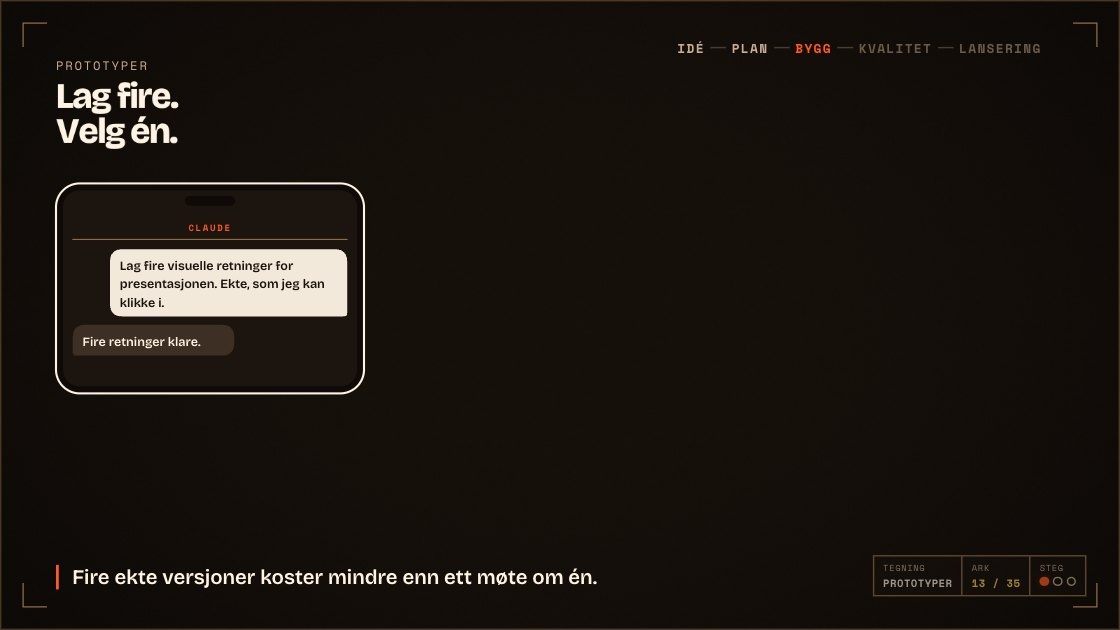
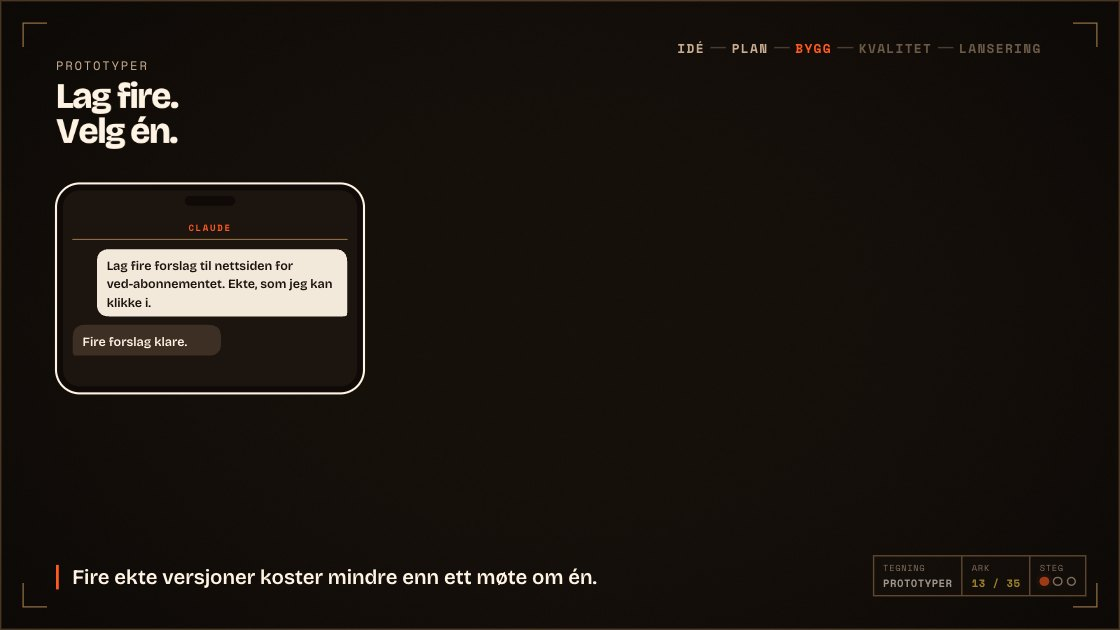
Prototypes: four landing pages for the firewood subscription; one is picked

diff --git a/src/slides/prototypes.js b/src/slides/prototypes.js
@@ -4,11 +4,11 @@ import { chatPhone } from '../engine/props.js';
 
 /*
   Tip: build several throwaway versions and pick one, instead of debating one.
-  The example is this deck's own visual identity.
-    0. Asked for four real directions.
-    1. They flip past one at a time: Observatoriet, Arkade, Blåkopi, Arbeidstegning.
-    2. Side by side for the pick. Three go in the bin; the chosen one comes back, stamped:
-       the style of the deck you are watching.
+  The example is the firewood subscription's landing page.
+    0. Asked for four real proposals for the site.
+    1. They flip past one at a time: Skog, Nordisk enkel, Rask levering, Varm peis.
+    2. Side by side for the pick. Three go in the bin; the chosen one (Varm peis) comes back,
+       stamped.
 
   Layout zones (svg units):
     tip        x 80–540, y 110–240
@@ -17,11 +17,12 @@ import { chatPhone } from '../engine/props.js';
     pick row   y 300–520 (step 2); bin x 1360–1460, y 600–760
 */
 
+// four landing pages for the firewood subscription; the last one is picked
 const DIRS = [
-  { name: 'Observatoriet', bg: '#0b1020', fg: '#e8eefc', acc: '#7fb2ff', font: "800 64px 'Inter Tight', var(--font-display)", deco: 'stars' },
-  { name: 'Arkade', bg: '#1a0f08', fg: '#ffd23f', acc: '#ff5a1f', font: '800 58px var(--font-display)', deco: 'blocks' },
-  { name: 'Blåkopi', bg: '#1d3a6b', fg: '#eaf2ff', acc: '#ff6f6f', font: '700 40px var(--font-mono)', deco: 'grid' },
-  { name: 'Arbeidstegning', bg: '#16100b', fg: '#fff3e3', acc: '#ff5a1f', font: '800 64px var(--font-display)', deco: 'sheet' },
+  { name: 'Skog', bg: '#17241a', fg: '#eef3e6', acc: '#8fbf6a', font: "800 64px 'Inter Tight', var(--font-display)", deco: 'trees' },
+  { name: 'Nordisk enkel', bg: '#f1ebe0', fg: '#1a120c', acc: '#c4562a', font: '700 56px var(--font-display)', deco: 'logs' },
+  { name: 'Rask levering', bg: '#ffd23f', fg: '#1a120c', acc: '#1a120c', font: '800 64px var(--font-display)', deco: 'truck' },
+  { name: 'Varm peis', bg: '#22120a', fg: '#fff3e3', acc: '#ff7a2f', font: '800 64px var(--font-display)', deco: 'fire' },
 ];
 const CW = 840, CH = 472;
 
@@ -30,9 +31,9 @@ export default {
   title: 'Prototyper',
   steps: 3,
   notes: [
-    'Fire ekte retninger i stedet for et møte om én.',
-    'Observatoriet, Arkade, Blåkopi, Arbeidstegning.',
-    'Velg én. Resten kastes. Det er den dere ser på nå.',
+    'Fire ekte forslag til nettsiden for ved-abonnementet, i stedet for et møte om ett.',
+    'Skog, Nordisk enkel, Rask levering, Varm peis.',
+    'Velg ett. Resten kastes.',
   ],
 
   create(ctx) {
@@ -57,37 +58,43 @@ export default {
         for (let y = step; y < CH; y += step) p += `M0 ${y} H${CW} `;
         D.p(deco, p, '', { style: `fill: none; stroke: ${color}`, 'stroke-width': 1.5 });
       };
-      if (d.deco === 'stars') {
-        // night sky: a big moon, stars, a thin horizon of hills
-        D.el('circle', { cx: 690, cy: 120, r: 70, style: 'fill: #e8eefc', opacity: 0.9 }, deco);
-        D.el('circle', { cx: 668, cy: 104, r: 64, style: `fill: ${d.bg}` }, deco);
-        for (let k = 0; k < 46; k++) D.el('circle', { cx: (k * 197) % CW, cy: (k * 89) % (CH - 120), r: (k % 3) * 0.8 + 1.4, style: `fill: ${d.fg}`, opacity: 0.35 + (k % 4) * 0.15 }, deco);
-        D.p(deco, `M0 ${CH - 70} Q200 ${CH - 120} 420 ${CH - 80} T${CW} ${CH - 96} V${CH} H0 Z`, '', { style: 'fill: #141c33' });
+      if (d.deco === 'trees') {
+        // a dark forest along the bottom right, a pale moon
+        D.el('circle', { cx: 700, cy: 110, r: 44, style: 'fill: #eef3e6', opacity: 0.85 }, deco);
+        [[560, 470, 150], [640, 470, 200], [720, 470, 170], [800, 470, 220]].forEach(([x, y, h]) => {
+          D.p(deco, `M${x} ${y - h} L${x + 52} ${y - 10} H${x - 52} Z`, '', { style: 'fill: #2f4a2c' });
+          D.el('rect', { x: x - 7, y: y - 12, width: 14, height: 12, style: 'fill: #3a2a1c' }, deco);
+        });
       }
-      if (d.deco === 'blocks') {
-        // loud flat colour: huge number, stacked blocks
-        D.el('rect', { x: 620, y: 0, width: CW - 620, height: CH, style: `fill: ${d.acc}` }, deco);
-        D.text(deco, 730, 320, '80', 'big', { 'text-anchor': 'middle', style: `font: 800 200px var(--font-display); fill: ${d.bg}` });
-        D.el('rect', { x: 60, y: 330, width: 120, height: 60, style: `fill: ${d.fg}` }, deco);
-        D.el('rect', { x: 190, y: 330, width: 60, height: 60, style: `fill: ${d.acc}` }, deco);
+      if (d.deco === 'logs') {
+        // light and plain: a neat stack of log ends in line art
+        for (let r = 0; r < 3; r++) for (let k = 0; k < 4 - r; k++) {
+          D.el('circle', { cx: 600 + k * 62 + r * 31, cy: 380 - r * 54, r: 28, style: `fill: none; stroke: ${d.fg}`, 'stroke-width': 3 }, deco);
+          D.el('circle', { cx: 600 + k * 62 + r * 31, cy: 380 - r * 54, r: 10, style: `fill: none; stroke: ${d.acc}`, 'stroke-width': 3 }, deco);
+        }
+        D.p(deco, 'M560 412 H800', '', { style: `fill: none; stroke: ${d.fg}`, 'stroke-width': 3 });
       }
-      if (d.deco === 'grid') {
-        // blueprint: grid, a white technical drawing of a house, a red pencil correction
-        grid('#2f5590');
-        D.p(deco, 'M560 380 V250 L660 190 L760 250 V380 Z M600 380 V320 H640 V380 M680 280 h50 v40 h-50 Z', '', { style: 'fill: none; stroke: #eaf2ff', 'stroke-width': 3 });
-        D.p(deco, 'M540 400 H780 M540 395 v10 M780 395 v10', '', { style: 'fill: none; stroke: #eaf2ff', 'stroke-width': 2 });
-        D.p(deco, D.roughEllipse(705, 300, 50, 34), '', { style: 'fill: none; stroke: #ff6f6f', 'stroke-width': 3 });
+      if (d.deco === 'truck') {
+        // loud and fast: a black truck with speed lines
+        D.el('rect', { x: 540, y: 250, width: 170, height: 90, rx: 6, style: 'fill: #1a120c' }, deco);
+        D.p(deco, 'M712 270 H770 L800 300 V340 H712 Z', '', { style: 'fill: #1a120c' });
+        [580, 760].forEach((cx) => { D.el('circle', { cx, cy: 345, r: 22, style: 'fill: #1a120c; stroke: #ffd23f', 'stroke-width': 5 }, deco); });
+        [270, 300, 330].forEach((y, k) => D.p(deco, `M${440 + k * 20} ${y} H${520}`, '', { style: 'fill: none; stroke: #1a120c', 'stroke-width': 6, 'stroke-linecap': 'round' }));
       }
-      if (d.deco === 'sheet') {
-        // working drawing: warm grid, crop marks, title block, a dimension line
-        grid('#2a1f17');
-        D.p(deco, 'M24 44 V24 H44 M796 24 H816 V44 M24 428 V448 H44 M796 448 H816 V428', '', { style: 'fill: none; stroke: #fff3e3', 'stroke-width': 2.5 });
-        D.el('rect', { x: CW - 280, y: CH - 80, width: 250, height: 54, style: 'fill: none; stroke: #6b5a48', 'stroke-width': 2 }, deco);
-        D.p(deco, `M${CW - 200} ${CH - 80} V${CH - 26} M${CW - 110} ${CH - 80} V${CH - 26}`, '', { style: 'fill: none; stroke: #6b5a48', 'stroke-width': 2 });
-        D.p(deco, `M60 ${CH / 2 + 40} H500 M60 ${CH / 2 + 32} v16 M500 ${CH / 2 + 32} v16`, '', { style: 'fill: none; stroke: #ffd23f', 'stroke-width': 3 });
+      if (d.deco === 'fire') {
+        // warm: a fireplace with a fire, its glow on the wall
+        D.el('circle', { cx: 680, cy: 300, r: 170, style: 'fill: #ff7a2f', opacity: 0.12 }, deco);
+        D.p(deco, 'M570 420 V240 Q680 170 790 240 V420 Z', '', { style: 'fill: #120905; stroke: #5a3a22', 'stroke-width': 6 });
+        D.p(deco, 'M640 410 Q632 352 668 322 Q664 360 684 372 Q690 330 716 300 Q724 360 722 410 Z', '', { style: 'fill: #ff7a2f' });
+        D.p(deco, 'M664 410 Q662 372 684 352 Q688 382 702 392 Q706 374 712 364 Q716 392 712 410 Z', '', { style: 'fill: #ffd23f' });
+        D.p(deco, 'M612 412 H748', '', { style: 'fill: none; stroke: #8a5a34', 'stroke-width': 10, 'stroke-linecap': 'round' });
       }
-      D.text(c, 60, CH / 2, 'Fra idé til startup', 'ct', { style: `font: ${d.font}; fill: ${d.fg}` });
-      D.text(c, 60, CH / 2 + 90, d.name.toUpperCase(), 'cn', { style: `font: 700 22px var(--font-mono); letter-spacing: .14em; fill: ${d.acc}` });
+      // the page: the same offer in every direction
+      D.text(c, 60, CH / 2 - 30, 'Ved på døra.', 'ct', { style: `font: ${d.font}; fill: ${d.fg}` });
+      D.text(c, 60, CH / 2 + 24, 'Hver 14. dag, hele vinteren.', 'cs', { style: `font: 600 26px var(--font-display); fill: ${d.fg}`, opacity: 0.85 });
+      D.el('rect', { x: 60, y: CH / 2 + 60, width: 170, height: 52, rx: 26, style: `fill: ${d.acc}` }, c);
+      D.text(c, 145, CH / 2 + 94, 'Bestill', 'cb', { 'text-anchor': 'middle', style: `font: 800 22px var(--font-display); fill: ${d.bg}` });
+      D.text(c, 60, CH - 46, d.name.toUpperCase(), 'cn', { style: `font: 700 22px var(--font-mono); letter-spacing: .14em; fill: ${d.acc}` });
       return c;
     }
 
@@ -99,9 +106,9 @@ export default {
         tl.add(fx.rise(tip, { stagger: 0.015 }), 0);
         P.chat = chatPhone(svg, 80, 262, 440, 300, { app: 'Claude', size: 18 });
         tl.fromTo(P.chat.root, { opacity: 0, x: -20 }, { opacity: 1, x: 0, duration: 0.5 }, 0.3);
-        P.chat.user(tl, 'Lag fire visuelle retninger for presentasjonen. Ekte, som jeg kan klikke i.', 0.8);
+        P.chat.user(tl, 'Lag fire forslag til nettsiden for ved-abonnementet. Ekte, som jeg kan klikke i.', 0.8);
         const t = P.chat.think(tl, 1.6, 1.4);
-        P.chat.reply(tl, 'Fire retninger klare.', t);
+        P.chat.reply(tl, 'Fire forslag klare.', t);
         P.cards = DIRS.map((d) => { const c = card(svg, d); gsap.set(c, { x: 620, y: 160, opacity: 0 }); return c; });
       }
 
@@ -141,9 +148,9 @@ export default {
           tl.to(ball, { opacity: 0, duration: 0.1 }, 2.3 + k * 0.3);
         });
                 tl.to(bin, { opacity: 0, duration: 0.3 }, 2.6);
-        // the chosen one grows to the full frame: this deck
+        // the chosen one grows back to full size
         tl.to(P.cards[pick], { x: 620, y: 160, scale: 1, duration: 1.0, ease: 'power2.inOut' }, 3.0); // after the others are in the bin
-        const st = D.stamp(D.g(svg, { 'data-unit': '' }), 1290, 560, 'VALGT', { size: 40, rotate: -6 });
+        const st = D.stamp(D.g(svg, { 'data-unit': '', 'data-overlap-ok': '' }), 1290, 560, 'VALGT', { size: 40, rotate: -6 }); // lands on the card by design
         tl.add(D.slam(st), 4.1);
       }
       return tl;

diff --git a/docs/content.md b/docs/content.md
@@ -232,8 +232,8 @@ Point: example from work. The speaker used AI to track the upstream gateway team
 ## Throwaway prototypes to decide [given]
 - Built: src/slides/prototypes.js.
 Point: build several versions and pick, instead of debating one.
-- Example: this deck's visual identity: four live directions, the speaker picked one, the rest deleted.
-- Storyboard [proposed]: four live mini-decks side by side (the real directions from this deck). Three slide away, one grows to fill the screen: the deck you are watching.
+- Example: the firewood subscription's landing page: four real proposals (Skog, Nordisk enkel, Rask levering, Varm peis), same offer "Ved på døra. Hver 14. dag, hele vinteren. Bestill"; one picked (Varm peis), the rest binned.
+- Storyboard [built]: asked in the chat for four proposals; they flip past one at a time; side by side for the pick, three go in the bin, the chosen one grows back and is stamped VALGT.
 
 ## Where it fails [given]
 - Built: src/slides/fails.js.
